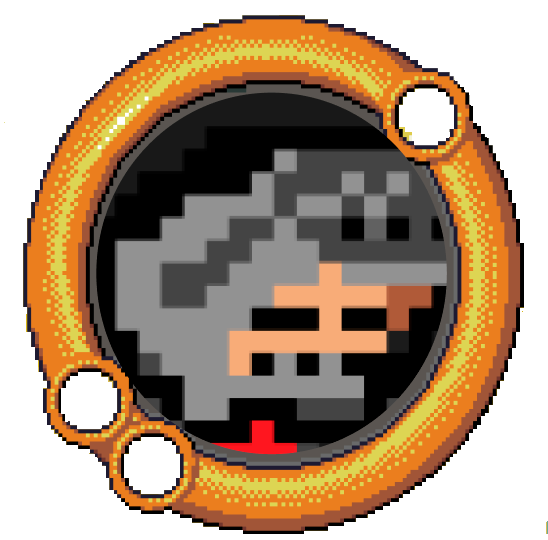
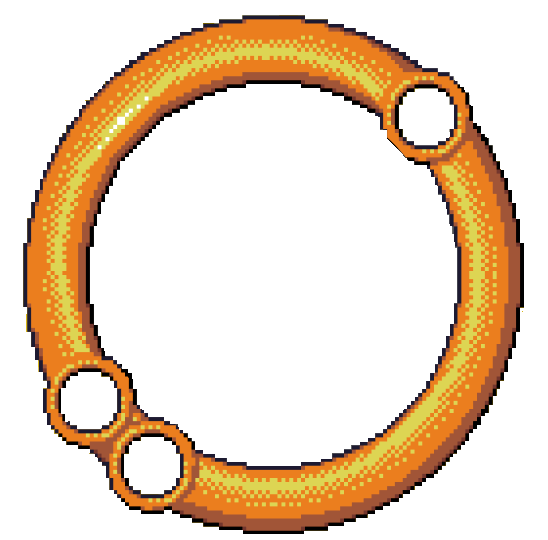
agrega cambios character layout agrega imagen
agregue el 2do formulario y tambien el png de aliado

diff --git a/src/styles/stylesPP.css b/src/styles/stylesPP.css
@@ -1,7 +1,7 @@
-/* div {
+ /* div {
     color : black;
     border: 1px solid red;
-  } */
+  }  */
 @font-face{
   font-family: 'Daydream';
   src: url(/src/fonts/MonsterFriendFore.otf);
@@ -20,13 +20,13 @@
   flex-direction: column;
   font-family: Daydream;
   color: #3f1e03;
-  width: 30%;
   background-color: #5c725c;
   background-size: cover;
   background-position: center;
   background-repeat: no-repeat;
-  
+  width: 500px; 
 }
+
 .reloj{
   margin-left: 10px;
 }
@@ -52,29 +52,25 @@
 
   .game-container {
     order: 1; /* Cambia el orden del elemento, moviéndolo arriba */
-    width: 100%;
+    width: auto;
     height: 300px;
   }
 }
-
-  .pet-message {
-    color: #282c34;
-  }
   
 
-.game-container {
-  background-image: url("../imagenes/fondoformulario.gif");
-  display: flex;
-  justify-content: center;
-  align-items: center;
-  background-color: #ffffff;
-  padding: 20px;
-  box-shadow: 0px 0px 10px rgba(0, 0, 0, 0.2);
-  width: 100%;
-  background-size: cover;
-  background-position: center;
-  background-repeat: no-repeat;
-}
+  .game-container {
+    background-image: url("../imagenes/fondoformulario.gif");
+    background-color: #ffffff;
+    box-shadow: 0px 0px 10px rgba(0, 0, 0, 0.2);
+    width: 100%;
+    height: auto; /* Establece la altura al 100% de la pantalla */
+    background-size: cover;
+    background-position: center;
+    background-repeat: no-repeat;
+    display:flex;
+    justify-content: space-between
+    
+  }
 
 
 .guardarjson{
@@ -111,13 +107,6 @@
   }
 }
 
-.character {
-  width: 100px;
-  height: 100px;
-  background-color: #00aaff;
-  margin-bottom: 20px;
-}
-
 .enemy {
   display: flex;
   align-items: center;
@@ -126,20 +115,23 @@
   height: 100px;
   background-color: #ff0000;
   margin-bottom: 20px;
-  font-size: 18px; 
+  font-size: 18px;  
 }
 
 .spanenemy{
+  
+  display: flex;
+  justify-content: center;
+  align-items: center;
     color: #700000;
     margin-left: 10px;
+    
 }
 .mensaje{
   margin-left: 10px;
 }
 
-.pet{
-  margin-left: 10px;
-}
+
 .bienvenidaPlayer{
   margin-left: 10px;
 }
@@ -165,8 +157,12 @@
   font-family: Daydream;
 }
 .imageenemy {
-  max-width: 200%; /* La imagen nunca será más ancha que su contenedor */
-  height: auto; /* La altura se ajustará automáticamente para mantener la proporción original */
+  position: relative;
+  display: flex;
+  justify-content: center;
+  align-items: center;
+  max-width: 200%;
+  height: auto; 
 }
 
 @media (max-width: 768px) {
@@ -176,22 +172,20 @@
 }
 @media (max-width: 768px) {
   .imageenemy {
+    position: relative;
     max-width: 100%; /* La imagen nunca será más ancha que su contenedor */
     height: auto; /* La altura se ajustará automáticamente para mantener la proporción original */
   }
 }
-.enemycontainer{
-  justify-content:center ;
-  height: auto;
-  width: 300px;
+.enemycontainer {
+  display: flex;
+  align-items: center;
+  justify-content: center;
+  align-items: center;
+  height: auto; 
+  width: 500px;
+  margin-right: 550px; 
 }
-.aliado {
-  top: -100px; /* Ajusta la distancia desde la parte superior */
-  right: 800px; /* Ajusta la distancia desde la derecha */
-  transform: scale(0.4); /* Escala el elemento al 70% de su tamaño original */
-  /* Otros estilos si es necesario */
-}
-
 /* ------------------------------------------------------------------------------------------------------- */
 /* configuracion form */
 .fondoform{
@@ -271,4 +265,43 @@
 .card:hover {
   background-color: #a3d871; /* Cambia el color de fondo al pasar el mouse por encima */
   border: 5px solid #174d63; /* Cambia el borde al pasar el mouse por encima */
+}
+
+/* --------------------------------------------------------------------------------------- */
+.character {
+  position: absolute;
+  width: 230px;
+  height: 230px;
+  background-size: cover;
+  background-position: center;
+  cursor: pointer;
+  position: relative;
+  margin-left: 0px; /* Añade margen izquierdo para separar del borde izquierdo */
+}
+
+@media (max-width: 768px) {
+  .enemycontainer{
+    margin-right: 50px;
+  }
+}
+.pet{
+  position: relative;
+  color: #e9e9e9;
+  font-family: Daydream;
+  background-color: rgb(10, 69, 69);
+  border-radius: 20px;
+  height: 100px;
+  width: 320px;
+}
+@media (max-width: 768px) {
+  .character {
+    display: none;
+  }
+  .pet{
+    display: none;
+  }
+}
+.imagenaliado{
+  width: 230px;
+  height: 230px;
 }

diff --git a/src/components/layout.js b/src/components/layout.js
@@ -10,6 +10,7 @@ import SaveComponent from './saveSessionComponent';
 import '../styles/stylesPP.css'
 import logo from '../imagenes/logo.png'; 
 import aliado from '../imagenes/aliados/aliado.png';
+import CharacterComponent from './character';
 
 const Layout = ({ children }) => {
 
@@ -20,6 +21,12 @@ const Layout = ({ children }) => {
     require('../imagenes/enemy1/PÉSCADO.png'),
     require('../imagenes/enemy1/SOMBRERIN.png'),
     require('../imagenes/enemy1/mirror.png'),
+  ];
+
+  const aliados = [
+    { nombre: 'pajaro', imagen: '../imagenes/aliados/aliado.png' },
+    { nombre: 'perro', imagen: 'ruta-aliado2.png' },
+    { nombre: 'gato', imagen: 'ruta-aliado3.png' },
   ];
 
   const session = {
@@ -246,7 +253,7 @@ const Layout = ({ children }) => {
           <p className='bienvenidaPlayer'>bienvenido {localStorage.getItem('User')}</p>
           <div className='reloj' id="reloj"></div>
           </header>
-            <Message />   
+              
             <div id="reloj"></div>
             <span id="enemyHealth" className='spanenemy'> Resistencia Emocional: {enemyInstance.vida}</span>
             
@@ -264,6 +271,7 @@ const Layout = ({ children }) => {
 
       </div>
       <div className="game-container">
+        <CharacterComponent/>
         <div className='enemycontainer'>
           {/* <div className="vidaenemigo">
             <span id="enemyHealth" className='spanenemy'> vida: {enemyInstance.vida}</span>

diff --git a/src/components/character.js b/src/components/character.js
@@ -1,0 +1,29 @@
+import React, { useState } from 'react';
+import Message from './message';
+import aliado1 from '../imagenes/aliados/aliado.png';
+
+const CharacterComponent = () => {
+  const [showMessages, setShowMessages] = useState(true);
+
+  // Función para mostrar los mensajes
+  const toggleMessages = () => {
+    setShowMessages(!showMessages); // Cambia el valor actual al contrario
+  };
+
+  return (
+    <>
+      <div className="character" onClick={toggleMessages}>
+        {/* Mostrar la imagen de tu aliado */}
+        <img className='imagenaliado' src={aliado1} alt="Aliado 1" />
+      </div>
+      {showMessages && (
+        <div className="messages">
+          {/* Aquí debes colocar tus mensajes o el componente Message */}
+          <Message />
+        </div>
+      )}
+    </>
+  );
+};
+
+export default CharacterComponent;

diff --git a/src/components/message.js b/src/components/message.js
@@ -34,9 +34,8 @@ const Message = () => {
   
 
   return (
-  <div id="pet" className='pet'>🐱
+  <div id="pet" className='pet'>
     <p id='pet-message'>
-    
     </p>
   </div>
 );
